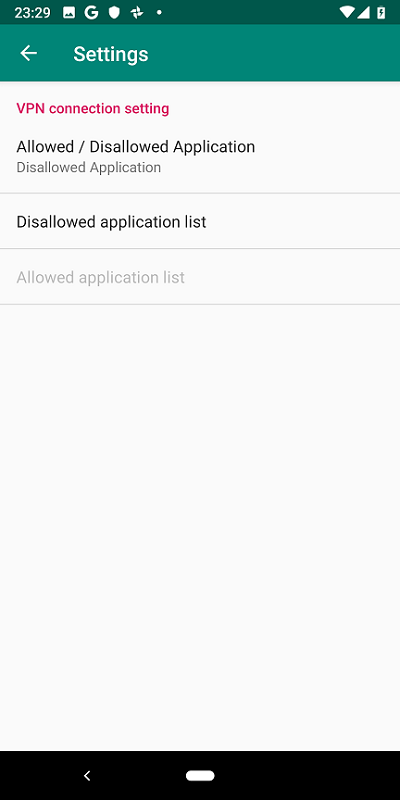
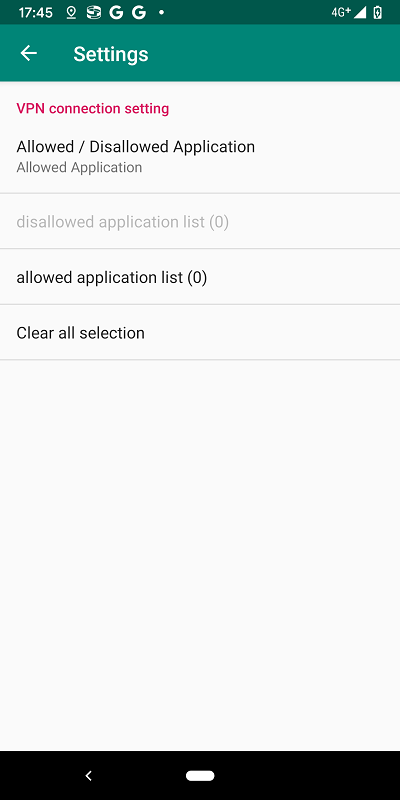
support v1.1.5 help

diff --git a/Readme-ja.md b/Readme-ja.md
@@ -47,6 +47,9 @@ Disallowed Application と Allowed Application の２つのモードがありま
     選択されていないアプリは、VPNを利用しない場合と同じ挙動になります。
     なお、一つも選択されていない場合は、すべてのアプリの通信がVPNを経由します。
 
+* Clear all selection
+  * Allowed / Disallowed Application のすべての選択をクリアします。
+
 ### Settings 検索
 
 ![Menu Settings](images/Menu-Settings-Search.png) / ![Menu Settings](images/Menu-Settings-SortBy.png)

diff --git a/Readme.md b/Readme.md
@@ -45,6 +45,9 @@ The default is **Disallowed Application** selected.
     Applications that are not selected behave the same as when not using VPN.
     In addition, if none of them are selected, communication of all applications will go through VPN.
 
+* Clear all selection
+  * Clear all selections of Allowed / Disallowed application list.
+
 ### Settings Search
 
 ![Menu Settings](images/Menu-Settings-Search.png) / ![Menu Settings](images/Menu-Settings-SortBy.png)
